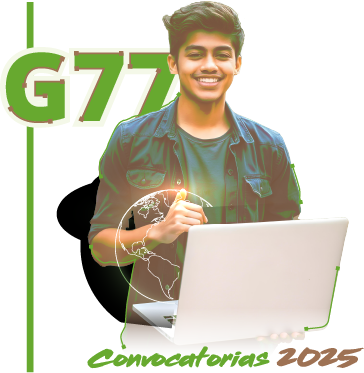
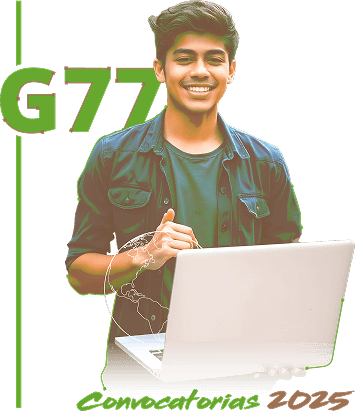
lista para subir

diff --git a/assets/css/style.css b/assets/css/style.css
@@ -1,6 +1,6 @@
 :root{
-    --color-primary: #9E7254;
-    --color-secondary: #67A92F;
+    --color-primary: #67A92F;
+    --color-secondary: #9E7254;
     --color-complementary: #FBFDFC;
     --color-text:#1C2617;
     --bg-fondo:#F4F8E8;
@@ -14,7 +14,9 @@ font-variation-settings:"wdth" 100;
 background-color: var(--bg-fondo);
 color: var(--color-text);
 }
-
+.modal-content{
+    background-color: var(--bg-fondo);
+}
 h1, .text-titulo{
     font-size: 40px;
     font-weight: 600;
@@ -239,7 +241,7 @@ ul.timeline::before {
 
 #sigueprocesoA ul.timeline:last-child::after{
     content: ' ';
-    background:#fff;
+    background:var(--bg-fondo);
     display: inline-block;
     position: absolute;
     left: 29px;
@@ -250,7 +252,7 @@ ul.timeline::before {
 }
 #sigueprocesoB ul.timeline:last-child::after{
     content: ' ';
-    background:#fff;
+    background:var(--bg-fondo);
     display: inline-block;
     position: absolute;
     left: 29px;
@@ -261,7 +263,7 @@ ul.timeline::before {
 }
 #sigueprocesoC ul.timeline:last-child::after{
     content: ' ';
-    background:#fff;
+    background:var(--bg-fondo);
     display: inline-block;
     position: absolute;
     left: 29px;
@@ -277,7 +279,7 @@ ul.timeline > li {
 }
 ul.timeline > li:before {
     content: ' ';
-    background: white;
+    background: var(--bg-fondo);
     display: inline-block;
     position: absolute;
     border-radius: 50%;

diff --git a/index.php b/index.php
@@ -5,6 +5,14 @@ $secA = 0;
 $secB = 0;
 $secC = 1;
 $convoActivo = 2;
+
+if ($_SERVER['PHP_AUTH_USER']!="PrepaLSEP" || $_SERVER['PHP_AUTH_PW']!="#dT/¡?Bds5f48glq78")
+{
+header('WWW-Authenticate: Basic realm="Ingrese su usario y contraseña asignada"');
+header('HTTP/1.0 401 Unauthorized');
+echo 'Authorization Required To Server.';
+exit;
+}
 ?>
 
 <!doctype html>
@@ -112,11 +120,11 @@ $convoActivo = 2;
                     <div class="col-12 col-md-5 text-end  mb-4 mb-sm-0">
                         <img src="assets/img/identidad-G77.png" alt="G77">
                     </div>
-                    <div class="col-12 col-md-4">
-                        <div class="prox mb-4">
+                    <div class="col-12 col-md-4 ">
+                        <div class="prox mb-4 ps-md-5 ps-4">
                             Próxima convocatoria
                         </div>
-                        <p class="fecha mb-4">del 21 de abril al 2 de mayo</p>
+                        <p class="fecha mb-4 ps-md-5 ps-4 text-start"><b>Regístrate</b> del 21 de abril <br> al 2 de mayo</p>
                     </div>
                     <div class="col-12 col-md-3">
                         <p><a class="btn-opciones" href="#" data-bs-toggle="modal" data-bs-target="#requisitos"><i class="fa-solid fa-arrow-down"></i> Requerimientos </a></p>
@@ -185,9 +193,9 @@ $convoActivo = 2;
                 </div>
                 <div class="col-12 col-md-4 mb-4">
                     <div class="card-convo">
-                        <img src="assets/img/identidad-G76.png" height="140" alt="convocatoria 76">
+                        <img src="assets/img/G76.png" height="140" alt="convocatoria 76">
                         <p> <a class="btn-opciones" href="#" data-bs-toggle="modal" data-bs-target="#sigueprocesoA"><i class="fa-solid fa-list"></i> Ver proceso</a></p>
-                        <p> <a class="btn-opciones" href="#" data-bs-toggle="modal" data-bs-target="#guiaA"><i class="fa-regular fa-address-book"></i> Guía de registro</a></p>
+                        <p> <a class="btn-opciones" href="#" data-bs-toggle="modal" data-bs-target="#guiaA"><i class="fa-regular fa-address-book"></i> Guía del aspirante</a></p>
                     </div>
                 </div>
 
@@ -222,7 +230,7 @@ $convoActivo = 2;
             <div class="row justify-content-center">
                 <div class="col-12 col-md-6 text-md-end text-center">
                     <div class="pe-md-5 mb-4">
-                        <a href="https://www.youtube.com/live/6u7MuLQGQS8" target="_blank" class="btn-sesiones"> 
+                        <a href="https://youtube.com/live/FOef4yBhbtU?feature=share" target="_blank" class="btn-sesiones"> 
                             <svg width="51" height="50" viewBox="0 0 51 50" fill="none" xmlns="http://www.w3.org/2000/svg">
                                 <path d="M23.5449 0.0432272C43.6249 -1.10677 56.9449 20.9232 46.3249 38.1432C36.4249 54.2032 12.8149 53.8932 3.37493 37.5532C-5.93507 21.4532 5.06492 1.10323 23.5449 0.0432272ZM23.1249 1.50323C4.72492 2.72323 -4.98507 24.5932 6.22493 39.2932C17.5549 54.1632 41.0449 50.5232 47.2449 32.9232C52.9949 16.6332 40.1849 0.373227 23.1249 1.50323Z" fill="var(--color-primary)"/>
                                 <path d="M31.1748 12.5234V26.1234C30.4848 26.4334 29.7548 26.6034 29.0648 26.9334C28.4248 27.2434 27.8748 27.6934 27.2548 28.0534C24.7848 27.4134 22.2648 27.1034 19.7048 27.2234V14.9234C21.8648 14.9834 23.8648 14.9534 25.9748 14.4734C27.7948 14.0634 29.4848 13.3134 31.1648 12.5234H31.1748Z" fill="var(--color-primary)"/>
@@ -237,7 +245,7 @@ $convoActivo = 2;
                             <span class="name">
                                 1.ª sesión informativa <br>
                                 <span class="date">
-                                    21 de marzo a las 16:00 horas
+                                    25 de abril a las 16:00 horas
                                 </span>
                             </span>
                             <svg width="19" height="32" viewBox="0 0 19 32" fill="none" xmlns="http://www.w3.org/2000/svg">
@@ -248,7 +256,7 @@ $convoActivo = 2;
                 </div>
                 <div class="col-12 col-md-6 text-md-start text-center">
                     <div class="ps-md-5">
-                        <a href="https://www.youtube.com/live/fSGxmoPGgJE" target="_blank" class="btn-sesiones"> 
+                        <a href="https://youtube.com/live/ymyk1yVSqlA?feature=share" target="_blank" class="btn-sesiones"> 
                             <svg width="51" height="50" viewBox="0 0 51 50" fill="none" xmlns="http://www.w3.org/2000/svg">
                                 <path d="M23.5997 0.0432272C43.6797 -1.10677 56.9997 20.9232 46.3797 38.1432C36.4797 54.2032 12.8697 53.8932 3.4297 37.5532C-6.0103 21.2132 5.1197 1.10323 23.5997 0.0432272ZM23.1797 1.50323C4.7797 2.72323 -4.9303 24.5932 6.2797 39.2932C17.6097 54.1632 41.0997 50.5232 47.2997 32.9232C53.0497 16.6332 40.2397 0.373227 23.1797 1.50323Z" fill="var(--color-primary)"/>
                                 <path d="M31.2298 12.5234V26.1234C30.5398 26.4334 29.8098 26.6034 29.1198 26.9334C28.4798 27.2434 27.9298 27.6934 27.3098 28.0534C24.8398 27.4134 22.3198 27.1034 19.7598 27.2234V14.9234C21.9198 14.9834 23.9198 14.9534 26.0298 14.4734C27.8498 14.0634 29.5398 13.3134 31.2198 12.5234H31.2298Z" fill="var(--color-primary)"/>
@@ -263,7 +271,7 @@ $convoActivo = 2;
                             <span class="name">
                                 2.ª sesión informativa <br>
                                 <span class="date">
-                                    2 de abril a las 16:00 horas
+                                    7 de mayo a las 16:00 horas
                                 </span>
                             </span>
                             <svg width="19" height="32" viewBox="0 0 19 32" fill="none" xmlns="http://www.w3.org/2000/svg">
@@ -291,8 +299,8 @@ $convoActivo = 2;
                         </a>
                     </div>
                 </div>
-                <div class="col-12 col-md-6 text-md-start text-center">
-                    <div class="ps-md-5">
+                <div class="col-12 col-md-6  text-center">  <!-- text-md-start -->
+                    <div class=""><!-- ps-md-5 -->
                         <a class="btn btn-labeled" href="https://prepaenlinea.sep.gob.mx/mesadeservicio" target="_blank" onclick="conteo_recurso(7)">
                             <span class="btn-label">
                                 <svg class="iconol" width="22" height="22" viewBox="0 0 22 22" fill="none" xmlns="http://www.w3.org/2000/svg">
@@ -488,18 +496,18 @@ $convoActivo = 2;
         <div class="modal-dialog modal-dialog-centered modal-dialog-scrollable modal-xl">
           <div class="modal-content">
             <div class="modal-header">
-              <h1 class="modal-title fs-5">Guía de registro</h1>
+              <h1 class="modal-title fs-5">Guía del aspirante</h1>
               <button type="button" class="btn-close" data-bs-dismiss="modal" aria-label="Close"></button>
             </div>
             <div class="modal-body">
                 <div class="container fluid">
                     <div class="row justify-content-center">
-                        <iframe class="pdf" src="more/PL-SEP_Convo2024-G73-guia-deregistro.pdf"></iframe>
+                        <iframe class="pdf" src="kit-76/guia_aspirante_g76.pdf"></iframe>
                     </div>
             
                     <div class="row justify-content-center mt-4">
                         <div class="col-12 col-md-11 text-center">
-                           <a class="btn btn-labeled" href="more/PL-SEP_Convo2024-G73-guia-deregistro.pdf" download="PL-SEP_Convo2025-G73-guia_registro.pdf" onclick="conteo_recurso(16)">
+                           <a class="btn btn-labeled" href="kit-76/guia_aspirante_g76.pdf" download="PL-SEP_Convo2025-G73-guia_registro.pdf" onclick="conteo_recurso(16)">
                                 <span class="btn-label"><i class="fa-solid fa-arrow-down iconol"></i> </span> <div class="text-bottom">Descargar</div> 
                             </a>
                             
@@ -580,12 +588,11 @@ $convoActivo = 2;
                 <div class="container">
                     <div class="row justify-content-center">
                         <div class="col-12 col-md-10">
-                            <div class="text-center"> <img src="assets/img/identidad-G76.png" height="140" alt="G76"></div>
+                            <div class="text-center"> <img src="assets/img/G76.png" height="140" alt="G76"></div>
                             
                             <ul class="timeline text-center">
                                 <li>
-                                    <a class="btn btn-timeline disabled" href="#">Regístrate</a>
-                                    <p>del 17 al 28 de marzo</p>
+                                    <p><a class="btn btn-estatus mb-4" href="https://registro.prepaenlinea.sep.gob.mx/registro/public/" target="_blank" onclick="conteo_recurso(2)">Estatus de registro <i class="fa-solid fa-arrow-right"></i></a></p>
                                 </li>
                                 <li>
                                     <a class="btn btn-timeline disabled" href="#" onclick="conteo_recurso(12,<?php echo $secA; ?>)">Obtén tus claves de acceso</a>
@@ -601,8 +608,8 @@ $convoActivo = 2;
                                     <p>del 16 al 28 de mayo</p>
                                 </li>
                                 <li class="last">
-                                    <a class="btn btn-timeline disabled"  data-bs-toggle="modal" data-bs-target="#micomunidad" href="#micomunidad" onclick="conteo_recurso(15,<?php echo $secA; ?>)">Cursa módulo 1</a>
-                                    <p>del 2 al 29 de junio </p>
+                                    <a class="btn btn-timeline disabled"  href="#" onclick="conteo_recurso(15,<?php echo $secA; ?>)">Cursa el módulo 1</a>
+                                    <p>del 2 al 29 de junio <br> <span style="color: transparent;">.</span> </p>
                                 </li>
                             </ul>
                         </div>
@@ -629,10 +636,7 @@ $convoActivo = 2;
                             <div class="text-center"> <img src="assets/img/identidad-G74.png" height="140" alt="G74"></div>
                             
                             <ul class="timeline text-center">
-                                <li>
-                                    <a class="btn btn-timeline disabled" href="#">Regístrate</a>
-                                    <p>del 20 al 31 de enero</p>
-                                </li>
+                                
                                 <li >
                                     <a class="btn btn-timeline disabled" href="#" onclick="conteo_recurso(17,<?php echo $secB; ?>)">Obtén tus claves de acceso</a>
                                     <p>del 5 al 9 de febrero</p>
@@ -646,8 +650,8 @@ $convoActivo = 2;
                                     <a class="btn btn-timeline disabled" href="#" onclick="conteo_recurso(19,<?php echo $secB; ?>)">Consulta tus resultados e inscríbete</a>
                                     <p>del 14 al 26 de marzo</p>
                                 </li>
-                                <li>
-                                    <a class="btn btn-timeline disabled" href="#" onclick="conteo_recurso(20,<?php echo $secB; ?>)">Cursa el módulo 1</a>
+                                <li class="enproceso">
+                                    <a class="btn btn-timeline activo" data-bs-toggle="modal" data-bs-target="#micomunidad" href="#micomunidad" onclick="conteo_recurso(20,<?php echo $secB; ?>)">Cursa el módulo 1</a>
                                     <p>del 31 de marzo <br>
                                         al 4 de mayo</p>
                                 </li>
@@ -676,10 +680,7 @@ $convoActivo = 2;
                             <div class="text-center"> <img src="assets/img/G75.png" height="140" alt="G75"></div>
                             
                             <ul class="timeline text-center">
-                                <li>
-                                    <a class="btn btn-timeline disabled" >Regístrate</a>
-                                    <p>del 17 al 28 de febrero</p>
-                                </li>
+                                
                                 <li>
                                     <a class="btn btn-timeline disabled" href="#"  onclick="conteo_recurso(22,<?php echo $secC; ?>)">Obtén tus claves de acceso</a>
                                     <p>del 5 al 9 de marzo</p>
@@ -694,7 +695,7 @@ $convoActivo = 2;
                                     <p>del 11 al 30 de abril</p>
                                 </li>
                                 <li><!-- data-bs-toggle="modal" data-bs-target="#micomunidad" href="#micomunidad" -->
-                                    <a class="btn btn-timeline disabled" href="#" onclick="conteo_recurso(25,<?php echo $secC; ?>)">Cursa módulo 1</a>
+                                    <a class="btn btn-timeline disabled" href="#" onclick="conteo_recurso(25,<?php echo $secC; ?>)">Cursa el módulo 1</a>
                                     <p>del 5 de mayo <br>
                                         al 1 de junio</p>
                                 </li>
